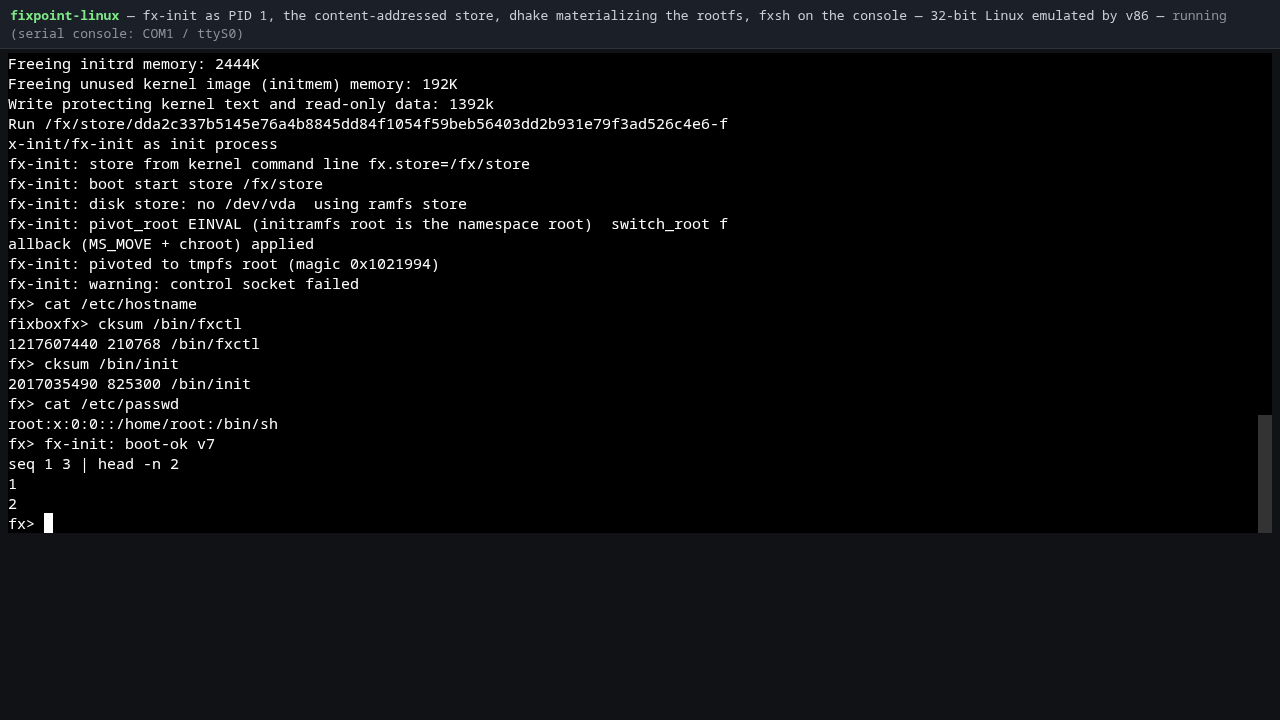
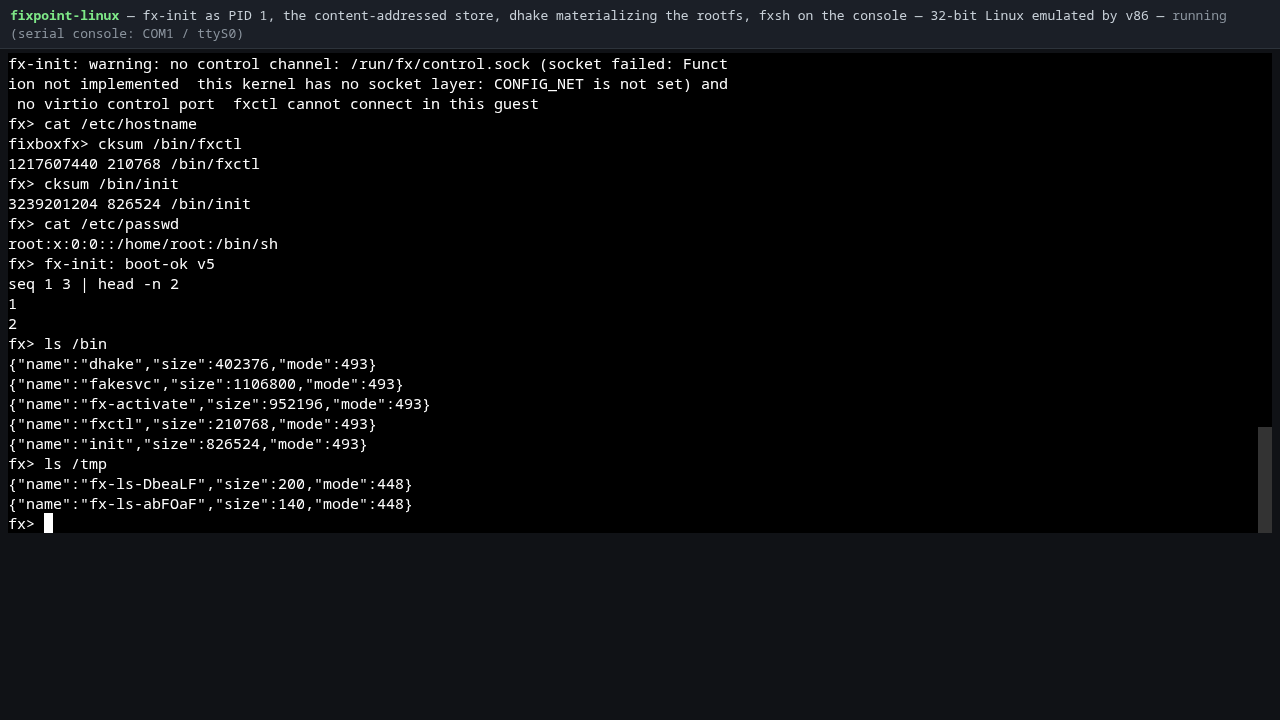
evidence: the clean-clone assertion run for the regenerated guest
A fresh `git clone` of the pushed repo at 34684ca, served with harness/serve.py
and driven by harness/assert.mjs in headless chromium: `sha256sum -c SHA256SUMS`
8/8 OK, assertion EXIT 0, TOTAL FETCHED BY THE BROWSER 3926476 bytes (the number
the README quotes). proof.png / proof-serial.txt are that run's own artifacts,
and proof-png-vision-read.txt is an independent vision-model transcription of
the screenshot (with the two OCR artifacts it makes noted, so the file is not
mistaken for a transcript).

tmp-fix-before-after.txt is the pair that matters: the SAME assertion, the same
instrument, against the previous image and this one. On the old image the guest
answers `ls /bin` and `ls /tmp` with `error: Mkdtemp` and both new assertions
are false; on this one both are true. That asymmetry is the regression test the
/tmp fix did not have.

The README's clone reference moves from 8e549bc to 34684ca — the commit that
introduced the shipped web/ bytes.

Changed region(s): [[0.0, 0.0611, 0.5625, 0.7028], [0.9688, 0.5806, 1.0, 0.6111]]

diff --git a/README.md b/README.md
@@ -74,9 +74,10 @@ Exit 0 and every assertion below is the claim; `proof.png` and
 `evidence/` was made this way, against a fresh `git clone` of the pushed repo,
 not from a working tree** — `evidence/assert-output.txt` is its verbatim
 transcript, including the scratch dir, the `sha256sum -c SHA256SUMS` result and
-the port used. (That clone was at `8e549bc`, the commit that introduced the
+the port used. (That clone was at `34684ca`, the commit that introduced the
 shipped `web/` bytes; `SHA256SUMS` passes and `web/` is byte-identical on the
-head of `main`.)
+head of `main`. `evidence/tmp-fix-before-after.txt` is the same assertion run
+against the *previous* image, where the two `/tmp` assertions fail.)
 
 ```
 ASSERT fx-init-boot-ok-in-page: true (fx-init: boot-ok v5)
